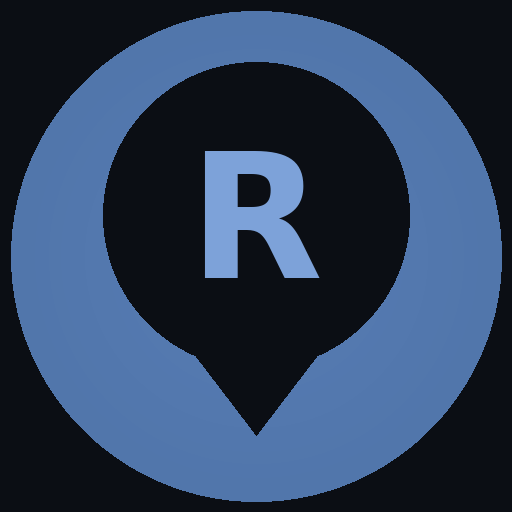
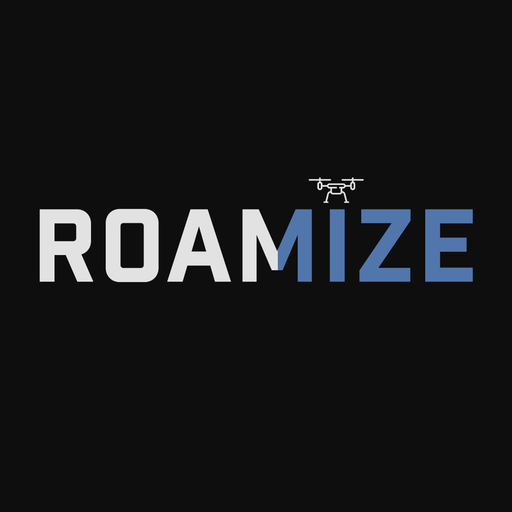
Add files via upload

diff --git a/index.html b/index.html
@@ -132,9 +132,21 @@ nav button svg{width:23px;height:23px}
 #countdown .sub{font-size:13px;opacity:.85;margin-top:2px;font-weight:500}
 #goldenRow{display:flex;gap:8px;overflow-x:auto;padding-bottom:4px;margin-bottom:10px;scrollbar-width:none}
 #goldenRow::-webkit-scrollbar{display:none}
+#mapWrap{position:relative}
 #map{
   height:44vh;min-height:300px;border-radius:var(--radius);
   border:1px solid var(--border);z-index:1;
+}
+.map-toggle{
+  position:absolute;top:10px;right:10px;z-index:600;
+  background:rgba(19,24,38,.92);border:1px solid var(--border);border-radius:10px;
+  padding:7px 11px;font-size:12.5px;font-weight:700;color:var(--text);
+  backdrop-filter:blur(6px);-webkit-backdrop-filter:blur(6px);
+}
+.photo-grid{display:grid;grid-template-columns:1fr 1fr;gap:8px;margin-bottom:12px}
+.photo-grid img{
+  width:100%;aspect-ratio:4/3;object-fit:cover;border-radius:12px;
+  border:1px solid var(--border);background:var(--surface-2);
 }
 .leaflet-container{background:#0b0e14;font-family:var(--font)}
 .pin-dot{
@@ -148,7 +160,7 @@ nav button svg{width:23px;height:23px}
 .leaflet-popup-content-wrapper{background:var(--surface);color:var(--text);border-radius:12px;border:1px solid var(--border)}
 .leaflet-popup-tip{background:var(--surface)}
 .leaflet-popup-content{margin:12px 14px;font-size:14px;line-height:1.45}
-.popup-actions{display:flex;gap:8px;margin-top:8px}
+.popup-actions{display:flex;gap:10px;margin-top:8px;flex-wrap:wrap}
 .popup-actions button{font-size:12px;font-weight:700;color:var(--accent-light);padding:4px 0}
 
 .pin-item{display:flex;align-items:center;gap:10px;padding:11px 2px;border-bottom:1px solid var(--border)}
@@ -286,7 +298,10 @@ nav button svg{width:23px;height:23px}
   <section class="tab active" id="tab-home">
     <div id="countdown"></div>
     <div id="goldenRow"></div>
-    <div id="map"></div>
+    <div id="mapWrap">
+      <div id="map"></div>
+      <button id="mapStyleBtn" class="map-toggle"></button>
+    </div>
     <div class="section-label">Shoot list <button id="addPinBtn">+ Add spot</button></div>
     <div class="card" id="pinList"></div>
     <div class="section-label">The loose plan</div>
@@ -643,7 +658,30 @@ function removeLogistics(id) {
 /* ============================================================
    HOME TAB — countdown, map, pins, schedule
    ============================================================ */
-let MAP = null, MARKERS = [];
+let MAP = null, MARKERS = [], STYLE_LAYERS = [];
+
+/* ---------- map styles: hybrid (satellite + labels) & dark ---------- */
+const MAP_STYLES = {
+  hybrid: () => [
+    L.tileLayer('https://server.arcgisonline.com/ArcGIS/rest/services/World_Imagery/MapServer/tile/{z}/{y}/{x}', { maxZoom: 19 }),
+    L.tileLayer('https://server.arcgisonline.com/ArcGIS/rest/services/Reference/World_Transportation/MapServer/tile/{z}/{y}/{x}', { maxZoom: 19 }),
+    L.tileLayer('https://server.arcgisonline.com/ArcGIS/rest/services/Reference/World_Boundaries_and_Places/MapServer/tile/{z}/{y}/{x}', { maxZoom: 19 })
+  ],
+  dark: () => [
+    L.tileLayer('https://{s}.basemaps.cartocdn.com/dark_all/{z}/{x}/{y}{r}.png', { maxZoom: 19 })
+  ]
+};
+function mapStyle() { return DB.settings.mapStyle || 'hybrid'; }
+function applyMapStyle() {
+  STYLE_LAYERS.forEach(l => MAP.removeLayer(l));
+  STYLE_LAYERS = MAP_STYLES[mapStyle()]().map(l => l.addTo(MAP));
+  const btn = document.getElementById('mapStyleBtn');
+  btn.textContent = mapStyle() === 'hybrid' ? '🌑 Dark' : '🛰️ Hybrid';
+}
+document.getElementById('mapStyleBtn').addEventListener('click', () => {
+  DB.settings.mapStyle = mapStyle() === 'hybrid' ? 'dark' : 'hybrid';
+  save(); applyMapStyle();
+});
 
 function renderCountdown() {
   const t = trip();
@@ -671,8 +709,8 @@ function renderMap() {
   const t = trip();
   if (!MAP) {
     MAP = L.map('map', { zoomControl: false, attributionControl: false });
-    L.tileLayer('https://{s}.basemaps.cartocdn.com/dark_all/{z}/{x}/{y}{r}.png', { maxZoom: 19 }).addTo(MAP);
-    L.control.attribution({ prefix: '© OSM · CARTO' }).addTo(MAP);
+    applyMapStyle();
+    L.control.attribution({ prefix: '© Esri · OSM · CARTO' }).addTo(MAP);
     MAP.on('contextmenu', e => quickAddPin(e.latlng)); // long-press on mobile
   }
   MARKERS.forEach(m => MAP.removeLayer(m)); MARKERS = [];
@@ -693,10 +731,45 @@ function popupHtml(p) {
     <span style="color:#8b95ab;font-size:12.5px">${esc(p.note || '')}${p.note ? '<br>' : ''}${dist} from base</span>
     <div class="popup-actions">
       <button onclick="togglePin('${p.id}')">${p.done ? '↺ Unshoot' : '✓ Shot it'}</button>
-      <button onclick="droneCheck('${p.id}')">🚁 Conditions</button>
+      <button onclick="peekPhotos('${p.id}')">📸 Peek</button>
+      <button onclick="droneCheck('${p.id}')">🚁 Wind</button>
       <button onclick="navTo(${p.lat},${p.lng})">🧭 Go</button>
       <button onclick="removePin('${p.id}')" style="color:var(--bad)">✕</button>
     </div>`;
+}
+
+/* ---------- 📸 Peek: real photos near a pin (Wikimedia Commons, free) ---------- */
+const photoCache = {};
+async function peekPhotos(pinId) {
+  const p = trip().pins.find(x => x.id === pinId); if (!p) return;
+  const svUrl = `https://www.google.com/maps/@?api=1&map_action=pano&viewpoint=${p.lat},${p.lng}`;
+  openSheet(`<h2>📸 ${esc(p.name)}</h2>
+    <div class="photo-grid" id="peekGrid"><div class="empty" style="grid-column:1/-1">Finding real shots of this spot…</div></div>
+    <button class="btn ghost" onclick="window.open('${svUrl}','_blank')">👁 Open Street View</button>
+    <p style="font-size:11.5px;color:var(--muted);text-align:center;margin-top:10px">Photos: Wikimedia Commons, shot near these coordinates · tap to view full-size</p>`);
+  const key = pinId;
+  try {
+    let photos = photoCache[key];
+    if (!photos) {
+      const url = 'https://commons.wikimedia.org/w/api.php?action=query&format=json&origin=*' +
+        '&generator=geosearch&ggsnamespace=6&ggslimit=10&ggsradius=2500' +
+        `&ggscoord=${p.lat}%7C${p.lng}` +
+        '&prop=imageinfo&iiprop=url&iiurlwidth=640';
+      const res = await fetch(url); const data = await res.json();
+      photos = Object.values(data.query?.pages || {})
+        .map(pg => pg.imageinfo && pg.imageinfo[0])
+        .filter(ii => ii && /\.(jpe?g|png)$/i.test(ii.url))
+        .slice(0, 4);
+      photoCache[key] = photos;
+    }
+    const grid = document.getElementById('peekGrid'); if (!grid) return;
+    grid.innerHTML = photos.length
+      ? photos.map(ii => `<img src="${ii.thumburl}" loading="lazy" onclick="window.open('${ii.url}','_blank')">`).join('')
+      : `<div class="empty" style="grid-column:1/-1">No public photos within ~1.5 mi of this pin.<br>Street View is your friend here 👁</div>`;
+  } catch (e) {
+    const grid = document.getElementById('peekGrid');
+    if (grid) grid.innerHTML = '<div class="empty" style="grid-column:1/-1">Couldn\'t load photos right now.</div>';
+  }
 }
 function navTo(lat, lng) { window.open(`https://maps.apple.com/?daddr=${lat},${lng}`, '_blank'); }
 function haversine(a, b) {

diff --git a/sw.js b/sw.js
@@ -1,5 +1,5 @@
 // Roamize service worker — caches the app shell so it opens fast (and mostly offline).
-const CACHE = 'roamize-v1';
+const CACHE = 'roamize-v2';
 const SHELL = [
   './index.html',
   './manifest.json',
@@ -20,7 +20,7 @@ self.addEventListener('fetch', e => {
   if (url.hostname.includes('api.anthropic.com') || url.hostname.includes('open-meteo.com')) return;
   e.respondWith(
     caches.match(e.request).then(hit => hit || fetch(e.request).then(res => {
-      if (e.request.method === 'GET' && (url.origin === location.origin || url.hostname.includes('basemaps.cartocdn.com'))) {
+      if (e.request.method === 'GET' && (url.origin === location.origin || url.hostname.includes('basemaps.cartocdn.com') || url.hostname.includes('arcgisonline.com'))) {
         const copy = res.clone();
         caches.open(CACHE).then(c => c.put(e.request, copy));
       }